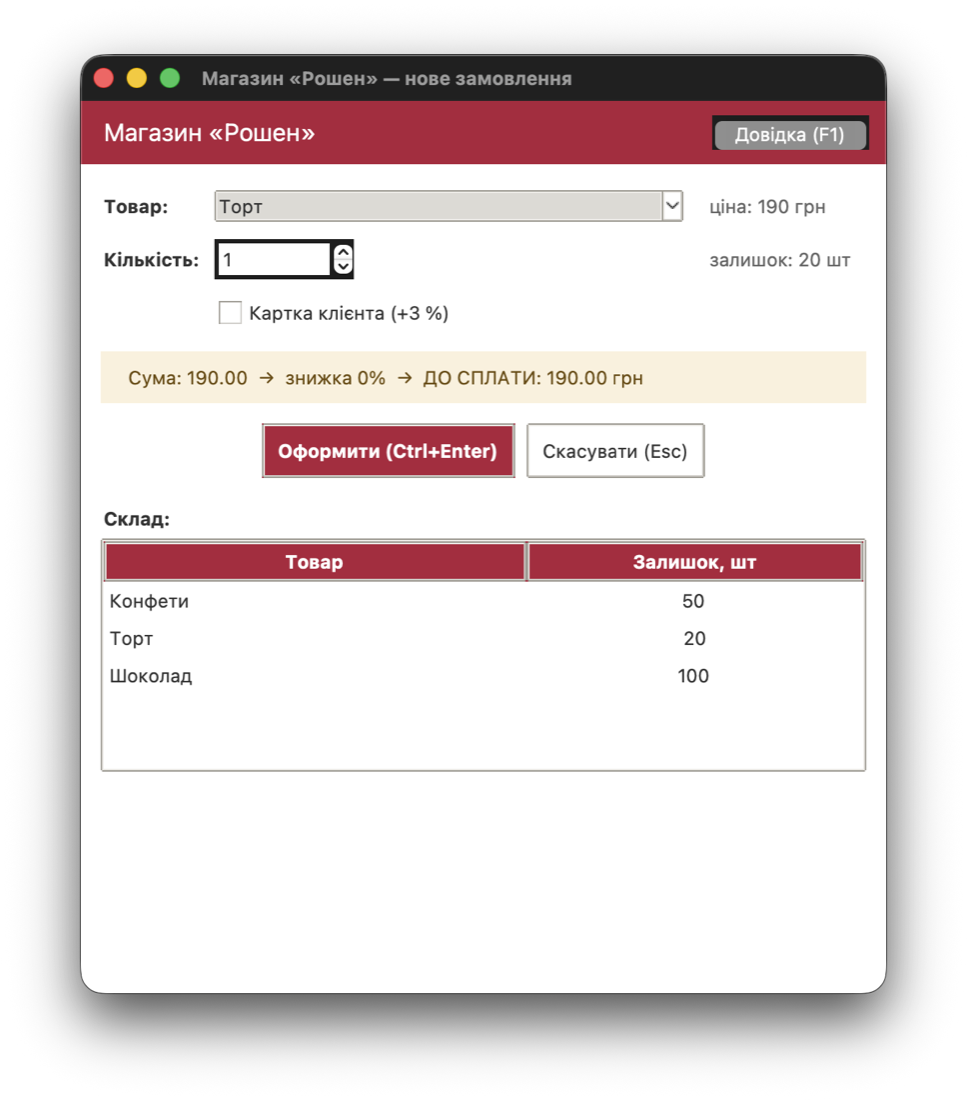
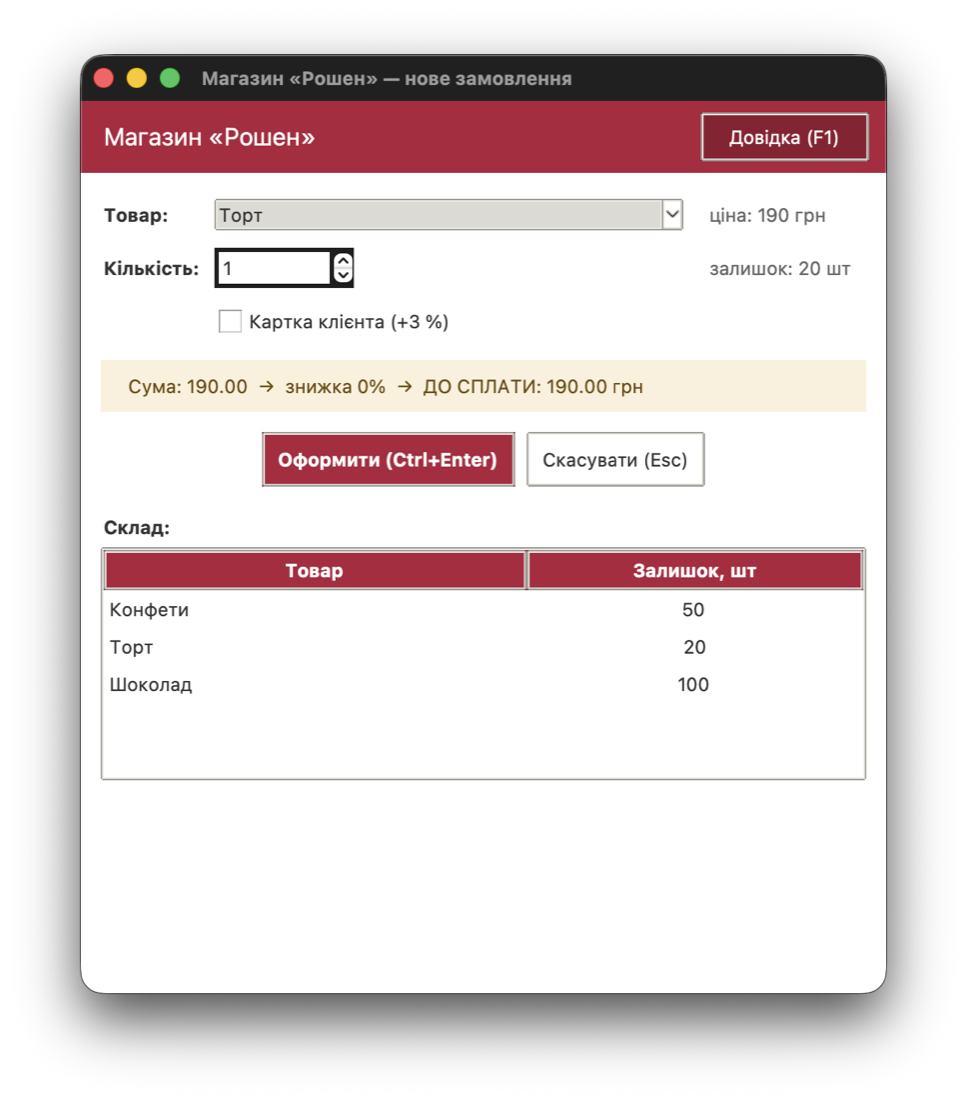
gui.py: кнопка «Довідка (F1)» переведена на ttk (стиль Header.TButton) — класичний tk.Button на Aqua при фокусі малювався білим; оновлено скріншот docs/img/gui_window.png

Changed region(s): [[0.0931, 0.0927, 0.8997, 0.6491], [0.0931, 0.68, 0.8997, 0.7109]]

diff --git a/gui.py b/gui.py
@@ -90,6 +90,9 @@ def build_styles():
     style.configure("Header.TLabel", background=CHERRY, foreground="white", font=FONT_HEAD)
     style.configure("Accent.TButton", background=CHERRY, foreground="white", font=FONT_BOLD, padding=8)
     style.map("Accent.TButton", background=[("active", CHERRY_DARK), ("pressed", CHERRY_DARK)])
+    style.configure("Header.TButton", background=CHERRY_DARK, foreground="white", font=FONT_UI, padding=6)
+    style.map("Header.TButton", background=[("active", CHERRY), ("pressed", CHERRY)],
+                foreground=[("active", "white"), ("pressed", "white")])
     style.configure("TButton", background=BG, foreground=TEXT, font=FONT_UI, padding=8)
     style.map("TButton", background=[("active", PANEL_BG)])
     style.configure("TCheckbutton", background=BG, foreground=TEXT, font=FONT_UI)
@@ -125,8 +128,8 @@ class ShopApp:
         header = ttk.Frame(root, style="Header.TFrame")
         header.pack(fill="x")
         ttk.Label(header, text="Магазин «Рошен»", style="Header.TLabel").pack(side="left", padx=14, pady=10)
-        tk.Button(header, text="Довідка (F1)", bg=CHERRY, fg="white", activebackground=CHERRY_DARK,
-                  activeforeground="white", bd=0, font=FONT_UI, command=self.show_help).pack(side="right", padx=12)
+        ttk.Button(header, text="Довідка (F1)", style="Header.TButton",
+                   command=self.show_help).pack(side="right", padx=12, pady=8)
 
         body = ttk.Frame(root, style="Card.TFrame")
         body.pack(fill="both", expand=True, padx=14, pady=12)
